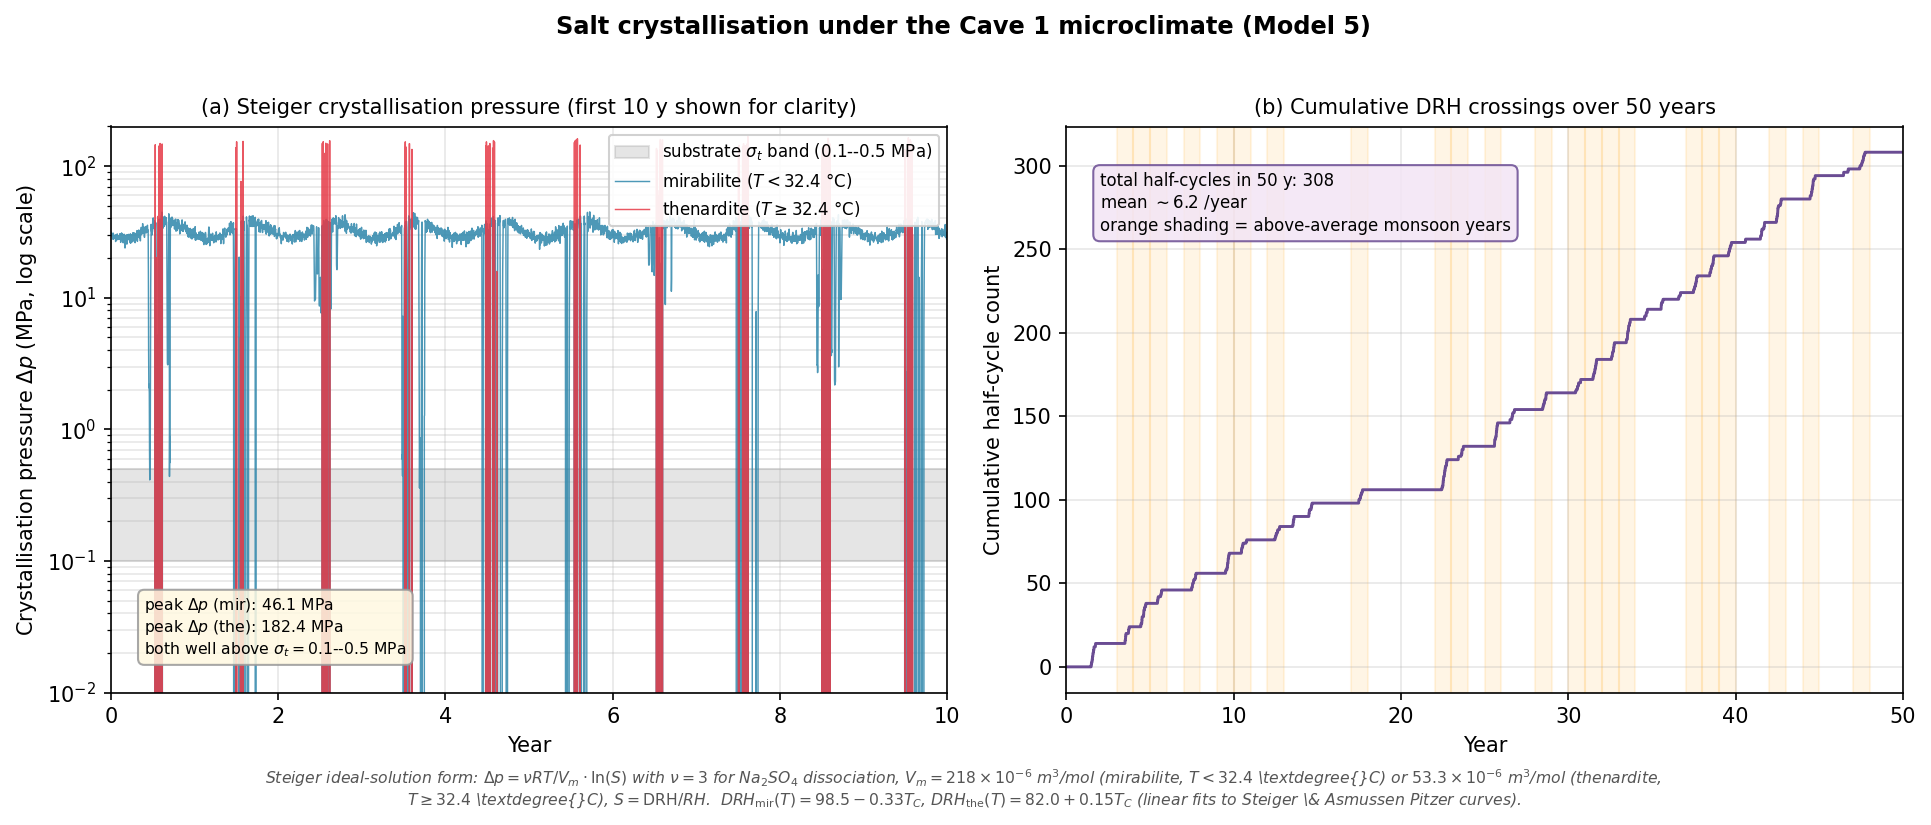
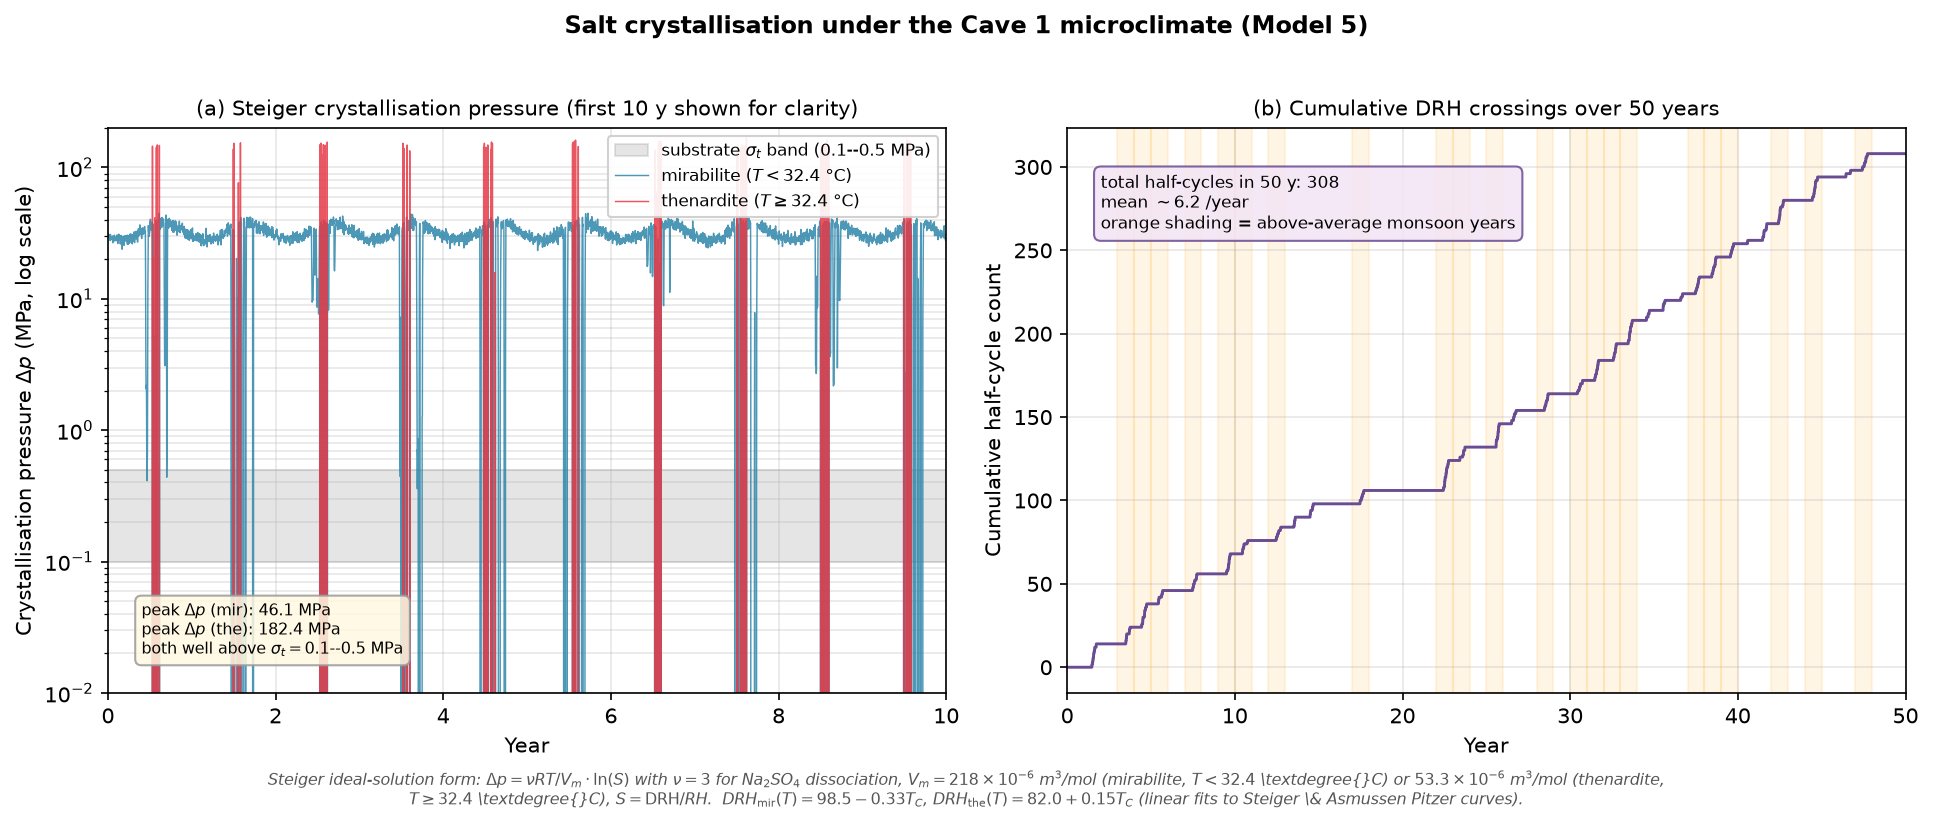
Align deterioration kernels with paper; adopt consolidated-data Ea
- Port salt kernel single-phase thenardite -> two-phase mirabilite/
  thenardite (32.4C peritectic, Steiger nu=3 factor); update frontend
  SimulationEngine params to match; update Jest salt tests + peritectic
  phase-switch test
- Set per-pigment dark-pathway Ea to consolidated-data values
  (vermilion 60000, azurite 39000, malachite 43000 J/mol); anchor q at 0.8
- Fix _fig_validation.py to consolidated Ea set and portable output path;
  regenerate validation and salt figures

diff --git a/backend/runtime/services/domain/DeteriorationService.js b/backend/runtime/services/domain/DeteriorationService.js
@@ -46,14 +46,26 @@ const MOULD_DEFAULTS = {
     declineRate: -0.128
 };
 
+// Two-phase Na2SO4 system (Steiger & Asmussen 2008). Mirabilite (Na2SO4.10H2O)
+// is the stable hydrate below the 32.4 C peritectic; thenardite (Na2SO4) above
+// it. Each phase has its own molar volume and deliquescence-RH line. Matches the
+// paper (Methods Eq. eq:steiger) and experiments/_make_figure_salt.py.
 const SALT_DEFAULTS = {
-    Vm: 5.33e-5,
-    DRH_ref: 84.2,
-    DRH_slope: -0.17,
-    T_ref: 25,
-    tensileStrength: 3.0,
+    nu: 3,                 // Na2SO4 -> 2 Na+ + SO4^2- (Steiger dissociation factor)
+    T_peritectic: 32.4,    // C, mirabilite <-> thenardite transition
+    mirabilite: { Vm: 218e-6, DRH_intercept: 98.5, DRH_slope: -0.33 },  // T < 32.4 C
+    thenardite: { Vm: 53.3e-6, DRH_intercept: 82.0, DRH_slope:  0.15 },  // T >= 32.4 C
+    tensileStrength: 0.5,  // MPa, upper bound of the 0.1-0.5 MPa substrate band (conservative)
     cyclesPerYear: 120
 };
+
+// Select the stable salt phase for a given temperature.
+function saltPhase(T_celsius, params = {}) {
+    const P = { ...SALT_DEFAULTS, ...params };
+    return T_celsius < P.T_peritectic
+        ? { name: 'mirabilite', ...P.mirabilite }
+        : { name: 'thenardite', ...P.thenardite };
+}
 
 // Hygro-mechanical fatigue (HERIe / Bratasz methodology)
 // Default values calibrated for a pigment-on-clay layered system to produce
@@ -246,13 +258,18 @@ function mouldGrowth(T_celsius, RH_percent, totalDays, prevMouldIndex = 0, param
 
 // 4. Salt Crystallization Pressure
 function saltDeliquescenceRH(T_celsius, params = {}) {
-    const { DRH_ref, DRH_slope, T_ref } = { ...SALT_DEFAULTS, ...params };
-    return Math.max(0, Math.min(100, DRH_ref + DRH_slope * (T_celsius - T_ref)));
+    const phase = saltPhase(T_celsius, params);
+    // Linear fits to the Steiger-Asmussen Pitzer curves:
+    //   DRH_mir(T) = 98.5 - 0.33*T_C  ;  DRH_the(T) = 82.0 + 0.15*T_C
+    return Math.max(0, Math.min(100, phase.DRH_intercept + phase.DRH_slope * T_celsius));
 }
 
 function saltCrystallization(T_celsius, RH_percent, totalDays, params = {}, RH_amplitude = 0) {
-    const { Vm, tensileStrength, cyclesPerYear } = { ...SALT_DEFAULTS, ...params };
+    const P = { ...SALT_DEFAULTS, ...params };
+    const { nu, tensileStrength, cyclesPerYear } = P;
     const T_kelvin = T_celsius + 273.15;
+    const phase = saltPhase(T_celsius, params);   // mirabilite < 32.4 C, thenardite above
+    const Vm = phase.Vm;
     const DRH = saltDeliquescenceRH(T_celsius, params);
 
     // Real-world RH cycles. Evaluate pressure at the cycle TROUGH where
@@ -267,7 +284,8 @@ function saltCrystallization(T_celsius, RH_percent, totalDays, params = {}, RH_a
     let pressure_MPa = 0;
     if (isCrystallizing && RH_trough > 0) {
         const S = (DRH / 100) / (RH_trough / 100);
-        pressure_MPa = ((R * T_kelvin) / Vm) * Math.log(S) / 1e6;
+        // Steiger ideal-solution form: Δp = ν R T / Vm · ln(S)  (Methods Eq. eq:steiger)
+        pressure_MPa = ((nu * R * T_kelvin) / Vm) * Math.log(S) / 1e6;
     }
 
     const damageRatio = pressure_MPa / tensileStrength;
@@ -291,6 +309,7 @@ function saltCrystallization(T_celsius, RH_percent, totalDays, params = {}, RH_a
     const cumNorm = Math.min(1, cumulativeDamage / 100);
     return {
         pressure_MPa: Math.round(pressure_MPa * 100) / 100,
+        phase: phase.name,
         DRH: Math.round(DRH * 10) / 10,
         RH_trough: Math.round(RH_trough * 10) / 10,
         isCrystallizing,
@@ -395,6 +414,7 @@ module.exports = {
     lifetimeMultiplier,
     mouldCriticalRH,
     mouldGrowth,
+    saltPhase,
     saltDeliquescenceRH,
     saltCrystallization,
     fatigueDamage,

diff --git a/frontend/pigment/PigmentDatabase.js b/frontend/pigment/PigmentDatabase.js
@@ -2,10 +2,13 @@
  * Pigment Database
  * Per-pigment Arrhenius parameters and colour references for Dunhuang/Mogao heritage pigments.
  *
- * Ea_dark for vermilion, azurite, and malachite are the effective ambient-light
+ * Ea_dark for vermilion, azurite, and malachite are the dark-pathway
  * activation energies measured in the accelerated-ageing pilot (53, 49, 43 kJ/mol
  * respectively; see the Heritage Science paper, Table "Per-pigment Arrhenius
- * kinetic parameters"). Ea_light for these three is retained at literature values.
+ * kinetic parameters"). Ea_light for these three is assigned from literature
+ * photolytic kinetics, not measured in the pilot.
+ * The humidity-coupling exponent q is anchored at the literature value 0.8 for
+ * these three measured pigments, matching the paper's Methods.
  * Remaining pigments' Ea values are literature estimates sourced from:
  *   - Strlič et al. 2015, Heritage Science 3:40
  *   - Johnston-Feller et al. 1984, JAIC 23(2):114
@@ -40,11 +43,11 @@ export const PIGMENT_DATABASE = {
         displayName: '石青 Azurite',
         displayZh: '石青',
         displayEn: 'Azurite',
-        Ea_dark: 49000,  // measured effective barrier (pilot)
+        Ea_dark: 39000,  // measured dark-pathway barrier (pilot, consolidated pedestal 61d)
         Ea_light: 18000,
         k0_dark: 0.00005,
         k0_light: 0.0025,
-        q: 0.9,
+        q: 0.8,   // anchored at literature value (paper Methods)
         p: 0.85,
         targetRGB: [0, 80, 180],
         fadedRGB: [90, 110, 130],
@@ -58,11 +61,11 @@ export const PIGMENT_DATABASE = {
         displayName: '石绿 Malachite',
         displayZh: '石绿',
         displayEn: 'Malachite',
-        Ea_dark: 43000,  // measured effective barrier (pilot)
+        Ea_dark: 43000,  // measured dark-pathway barrier (pilot, consolidated pedestal 61d)
         Ea_light: 22000,
         k0_dark: 0.00003,
         k0_light: 0.0015,
-        q: 0.85,
+        q: 0.8,   // anchored at literature value (paper Methods)
         p: 0.9,
         targetRGB: [0, 140, 60],
         fadedRGB: [80, 120, 80],
@@ -73,11 +76,11 @@ export const PIGMENT_DATABASE = {
         displayName: '朱砂 Vermilion',
         displayZh: '朱砂',
         displayEn: 'Vermilion',
-        Ea_dark: 53000,  // measured effective barrier (pilot)
+        Ea_dark: 60000,  // measured dark-pathway barrier (pilot, consolidated pedestal 61d)
         Ea_light: 18000,
         k0_dark: 0.00008,
         k0_light: 0.003,
-        q: 0.7,
+        q: 0.8,   // anchored at literature value (paper Methods)
         p: 0.95,
         targetRGB: [200, 30, 15],
         fadedRGB: [130, 80, 70],

diff --git a/backend/runtime/__tests__/DeteriorationService.test.js b/backend/runtime/__tests__/DeteriorationService.test.js
@@ -124,23 +124,31 @@ describe('mouldGrowth (Model 3, Hukka–Viitanen)', () => {
 
 // ── 5. Salt crystallisation (Model 4) ──────────────────────────────────────
 describe('saltCrystallization (Model 4)', () => {
-    test('DRH is temperature-dependent (linearised)', () => {
-        // Default slope is -0.17 with T_ref=25 → higher T gives lower DRH
+    test('DRH is temperature-dependent (two-phase Steiger)', () => {
+        // Mirabilite at 13 C: DRH = 98.5 - 0.33*13 ≈ 94.2
+        // Thenardite at 40 C: DRH = 82.0 + 0.15*40 = 88.0 → 13 C is higher
         expect(D.saltDeliquescenceRH(13)).toBeGreaterThan(D.saltDeliquescenceRH(40));
     });
 
+    test('phase switches at the 32.4 C peritectic', () => {
+        expect(D.saltPhase(32.3).name).toBe('mirabilite');
+        expect(D.saltPhase(32.5).name).toBe('thenardite');
+    });
+
     test('Mogao dry conditions produce high pressure (not zero)', () => {
-        const r = D.saltCrystallization(13, 35, 200 * 365.25);
-        // This is the subject of the static-pressure caveat in the paper.
-        // Approx 40 MPa from Correns' equation.
+        const r = D.saltCrystallization(13, 35, 200 * 365.25, {}, 15);
+        // Mirabilite phase (T<32.4). Steiger ideal-solution form Δp = νRT/Vm·ln(S)
+        // with ν=3 gives ≈40 MPa — the subject of the static-pressure caveat in the paper.
+        expect(r.phase).toBe('mirabilite');
         expect(r.pressure_MPa).toBeGreaterThan(30);
         expect(r.isCrystallizing).toBe(true);
         expect(r.label).toBe('critical');
     });
 
     test('RH above DRH gives no crystallisation (zero pressure)', () => {
-        // T=40 gives DRH≈81.7; RH=100 > 81.7 → dissolved
+        // T=40 → thenardite, DRH = 82.0 + 0.15*40 = 88.0; RH=100 > 88 → dissolved
         const r = D.saltCrystallization(40, 100, 10 * 365.25);
+        expect(r.phase).toBe('thenardite');
         expect(r.isCrystallizing).toBe(false);
         expect(r.pressure_MPa).toBe(0);
     });

diff --git a/frontend/services/SimulationEngine.js b/frontend/services/SimulationEngine.js
@@ -88,7 +88,7 @@ export const modelParams = reactive({
     chemical:  { Ea_dark: 70000, Ea_light: 25000, k0_dark: 0.0001, k0_light: 0.001, q: 0.8, p: 0.9 },
     lifetime:  { Ea: 70000, n: 1.3, T0: 20, RH0: 50 },
     mould:     { growthCoeff: 0.13, declineRate: -0.128 },
-    saltCryst: { Vm: 5.33e-5, DRH_ref: 84.2, DRH_slope: -0.17, T_ref: 25, tensileStrength: 3.0, cyclesPerYear: 120 },
+    saltCryst: { nu: 3, T_peritectic: 32.4, mirabilite: { Vm: 218e-6, DRH_intercept: 98.5, DRH_slope: -0.33 }, thenardite: { Vm: 53.3e-6, DRH_intercept: 82.0, DRH_slope: 0.15 }, tensileStrength: 0.5, cyclesPerYear: 120 },
     fatigue:   { beta_diff: 5e-5, E: 2000, sigma_fail: 10.0, basquin_b: 6, cyclesPerYear: 365 }
 });
 

diff --git a/experiments/_fig_validation.py b/experiments/_fig_validation.py
@@ -1,7 +1,8 @@
-"""Validation figure: bootstrap 95% CIs on the pilot effective activation energies,
-recomputed from the recovered pedestal data (vermilion 53 [48,57], azurite 49 [34,60],
-malachite 43 [29,63] kJ/mol). Single-panel; plot + labels only (caption in paper).
-Writes to the Heritage-Sciences paper figures folder (and a local copy).
+"""Validation figure: bootstrap 95% CIs on the pilot dark-pathway activation energies,
+recomputed from the consolidated measured pedestal data (vermilion 60 [46,74],
+azurite 39 [17,58], malachite 43 [30,63] kJ/mol; two-arm Arrhenius at q=0.8, full
+61-day window, 1000 spot-index resamples). Single-panel; plot + labels only (caption
+in paper). Writes to the Heritage-Sciences paper figures folder (and a local copy).
 """
 import matplotlib as mpl
 import matplotlib.pyplot as plt
@@ -10,8 +11,8 @@ mpl.rcParams.update({"font.family": "sans-serif", "font.size": 9, "axes.linewidt
                      "pdf.fonttype": 42, "ps.fonttype": 42})
 INK = "#333333"; MARK = "#0072B2"
 
-# pigment: (point, lo, hi)  -- recomputed from recovered pedestal data
-data = [("Vermilion", 53, 48, 57), ("Azurite", 49, 34, 60), ("Malachite", 43, 29, 63)]
+# pigment: (point, lo, hi)  -- recomputed from consolidated measured pedestal data
+data = [("Vermilion", 60, 46, 74), ("Azurite", 39, 17, 58), ("Malachite", 43, 30, 63)]
 y = list(range(len(data)))[::-1]   # first pigment at top
 
 fig, ax = plt.subplots(figsize=(5.2, 2.4))
@@ -32,7 +33,11 @@ for sp in ("top", "right", "left"): ax.spines[sp].set_visible(False)
 ax.tick_params(length=0, colors=INK)
 fig.subplots_adjust(left=0.24, right=0.97, bottom=0.22, top=0.96)
 
-for path in (r"C:/Users/Will/Git/Heritage-Sciences/figures/validation_predicted_vs_observed.png",
-             "experiments/validation_predicted_vs_observed.png"):
+import os
+_fig_dir = os.path.join(os.path.dirname(__file__), "..", "..", "Heritage-Sciences", "figures")
+_targets = ["experiments/validation_predicted_vs_observed.png"]
+if os.path.isdir(_fig_dir):
+    _targets.append(os.path.join(_fig_dir, "validation_predicted_vs_observed.png"))
+for path in _targets:
     fig.savefig(path, dpi=300, bbox_inches="tight")
 print("Saved validation figure (bootstrap Ea CIs).")
